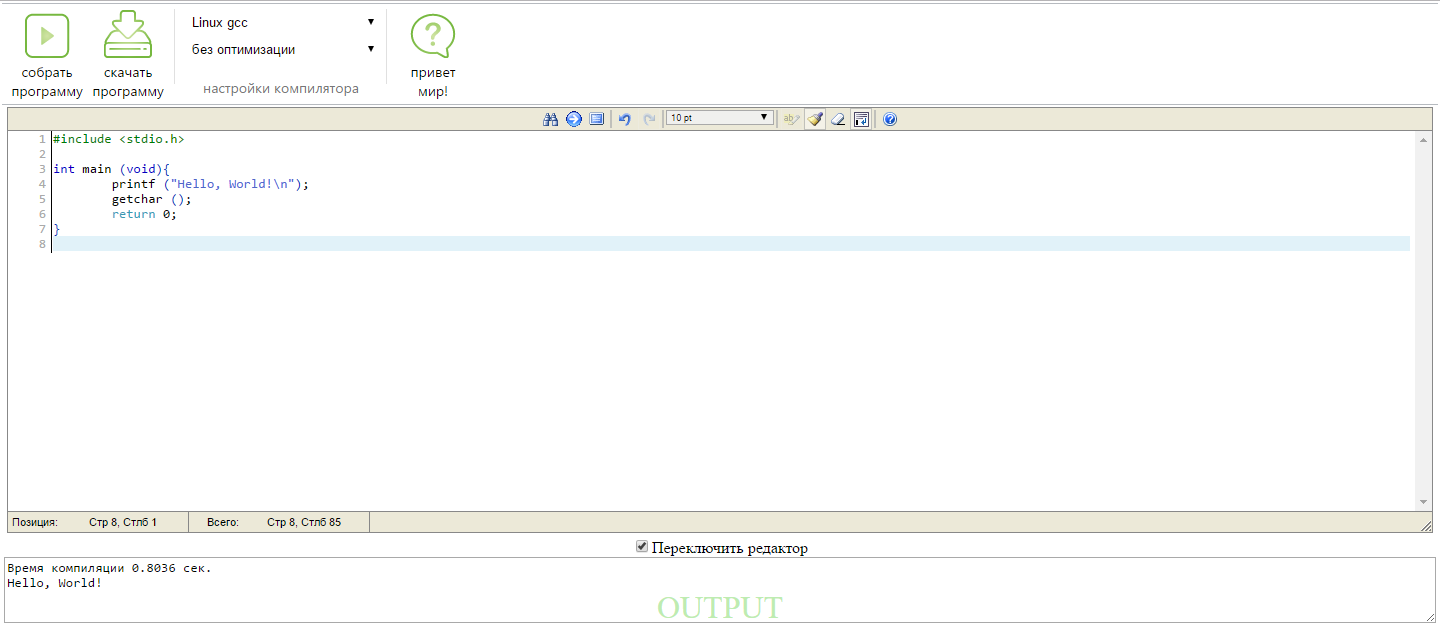
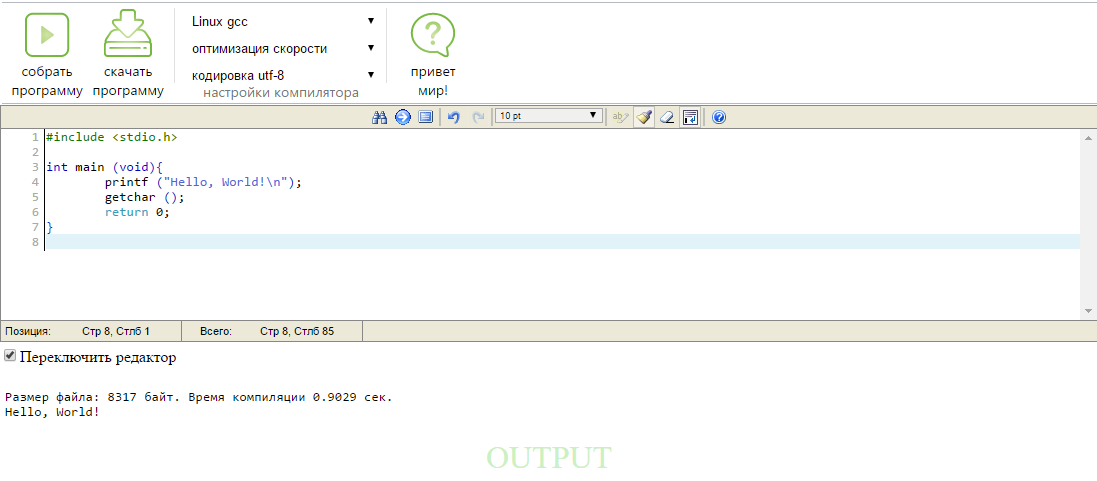
Добавлен выбор кодировки

Changed region(s): [[0.0, 0.0, 1.0, 0.9979]]

diff --git a/script.js b/script.js
@@ -3,6 +3,7 @@ var btnCompile   = document.getElementById('compile');
 var btnHello     = document.getElementById('hello');
 var setCompiler  = document.getElementById("setcompiler");
 var optimization = document.getElementById("optimization");
+var codePage    = document.getElementById("code_page");
 var programmLink = document.getElementById("link");
 
 btnCompile.addEventListener("click", sendToCompile);
@@ -10,7 +11,10 @@ btnHello.addEventListener("click", loadHello);
 
 function sendToCompile(){
     //собираем тело запроса
-    var body = 'setcompiler=' + encodeURIComponent(setCompiler.value) + '&optimization=' + encodeURIComponent(optimization.value) + '&text_box=' + encodeURIComponent(editAreaLoader.getValue("codebox"));
+    var body = 'setcompiler=' + encodeURIComponent(setCompiler.value) 
+         +'&optimization=' + encodeURIComponent(optimization.value)
+         +'&code_page=' + encodeURIComponent(codePage.value)
+         +'&text_box=' + encodeURIComponent(editAreaLoader.getValue("codebox"));
     //создаем запрос
     var xhr = new XMLHttpRequest();
     xhr.open('POST', 'compile.php', true);
@@ -42,9 +46,9 @@ function sendToCompile(){
 
 function loadHello(){
     //загружаем в редактор текст программы Hello world
-    var s='#include <stdio.h>\n\n';
-    s+='int main (void){\n';
-    s+='\tprintf ("Hello, World!\\n");\n';
-    s+='\tgetchar ();\n\treturn 0;\n}\n';
+    var s='#include <stdio.h>\n\n'
+    +'int main (void){\n'
+    +'\tprintf ("Hello, World!\\n");\n'
+    +'\tgetchar ();\n\treturn 0;\n}\n';
     editAreaLoader.setValue("codebox", s);
 }

diff --git a/style.css b/style.css
@@ -30,11 +30,13 @@ html, body {
 
 #panel select{
     width: 100%;
+    height: 27px;
+    font-size: 13px;
 }
 
 #panel span{
     position: absolute;
-    bottom: 0;
+    bottom: -5px;
     left: 0;
     width: 100%;
     text-align: center;
@@ -54,6 +56,7 @@ html, body {
 	float: left;
 	padding: 0;
 	text-align: left;
+	transition: all, 0.5s;
 }
 
 .sep{
@@ -84,6 +87,7 @@ html, body {
 	float: left;
 	padding: 0;
 	text-align: center;
+	transition: all, 0.5s;
 }
 
 .pbutton-big>img{
@@ -96,6 +100,7 @@ html, body {
     width: 100%;
     top: 105px;
     bottom: 140px;
+    transition: all, 0.5s;
 }
 
 #codebox{
@@ -110,6 +115,7 @@ html, body {
     right: -8px;
     border: none;
     padding: 3px;
+    transition: all, 0.5s;
 }
 
 #output-text{
@@ -132,6 +138,10 @@ html, body {
     
     .minipanel{
     	width: 106px;
+    }
+    
+    #panel span{
+        font-size:8px;
     }
     
     .sep{

diff --git a/index.html b/index.html
@@ -38,7 +38,12 @@
             <select size="1" name="optimization" id="optimization" class="pbutton">
                 <option selected value="0">без оптимизации</option>
                 <option value="1">оптимизация скорости</option>
-                <option value="1">оптимизация размера</option>
+                <option value="2">оптимизация размера</option>
+            </select>
+            <select size="1" name="code_page" id="code_page" class="pbutton">
+                <option selected value="0">кодировка utf-8</option>
+                <option value="1">кодировка cp1251</option>
+                <option value="2">кодировка cp866</option>
             </select>
             <span>настройки компилятора</span>
         </div>

diff --git a/compile.php b/compile.php
@@ -4,6 +4,7 @@ $start = microtime(true);
 $input = $_POST['input'];
 $optimization = $_POST['optimization'];
 $setcompiler = $_POST['setcompiler'];
+$codepage = $_POST['code_page'];
 
 $out='';
 
@@ -29,12 +30,35 @@ if(isset($_POST['text_box'])) {
             $optstring = ' -O0';
     }
     
+    switch($codepage){
+        case 1:
+            $setcodepage = 'cp1251';
+            break;
+        case 2:
+            $setcodepage = 'cp866';
+            break;
+        default:
+            $setcodepage = 'utf8';
+    }
+    
     //компилируем выбранным компилятором
     if($setcompiler==0){
-	    exec('gcc '. $filename . $optstring . ' -o tmp/program 2>&1', $outputErr, $return_value);
+	    exec('gcc '
+	        . $filename
+	        . $optstring
+	        . ' -o tmp/program  -finput-charset=utf8 -fexec-charset='
+	        . $setcodepage
+	        . ' 2>&1', $outputErr, $return_value);
+	    echo 'Размер файла: ' . filesize('tmp/program') . ' байт. ';
     }
 	else{
-	    exec('i586-mingw32msvc-gcc ' . $filename . $optstring . ' -o tmp/program.exe 2>&1', $outputErr, $return_value);
+	    exec('i586-mingw32msvc-gcc '
+	        . $filename
+	        . $optstring
+	        . ' -o tmp/program.exe  -finput-charset=utf8 -fexec-charset='
+	        . $setcodepage
+	        . ' 2>&1', $outputErr, $return_value);
+	    echo 'Размер файла: ' . filesize('tmp/program.exe') . ' байт';
 	}
     
 	//проверка на наличие ошибок компиляции
